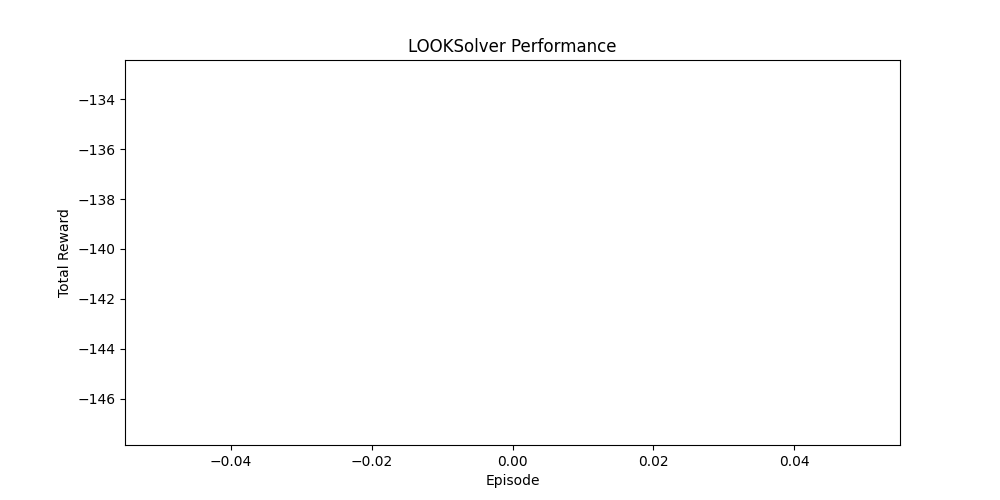
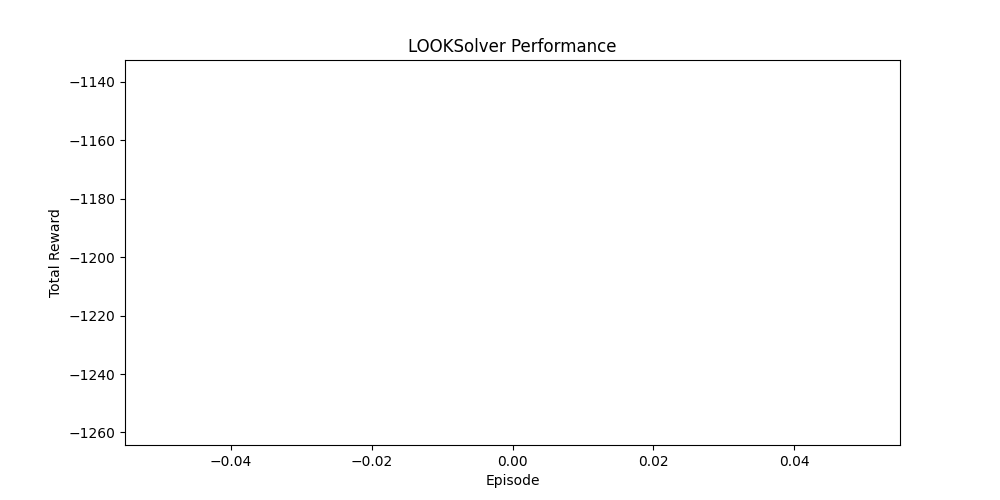
debug

diff --git a/Solver/LOOK.py b/Solver/LOOK.py
@@ -167,11 +167,11 @@ class LOOKSolver:
 
 if __name__ == "__main__":
     env = gym.make("Elevators/Elevators-v0", 
-                   num_floors=4, 
+                   num_floors=10, 
                    num_cars=1, 
-                   avg_passengers_spawning_time=3,
+                   avg_passengers_spawning_time=5,
                    total_passengers=1000000,
-                   capacity=4,
+                #    capacity=4,
                    seed=0)
     solver = LOOKSolver(env)
     rewards = []

diff --git a/Elevators/envs/simple_elevators.py b/Elevators/envs/simple_elevators.py
@@ -361,7 +361,7 @@ class ElevatorEnv(gym.Env):
             for p in car.passengers:
                 if p.t_board is not None:
                     r += (self.time - p.t_board)**2
-        reward = -(w + r) * 2e-4 + self.arrival_reward * 10 + self.board_reward
+        reward = -(w + r) * 1e-3 + self.arrival_reward * 10 + self.board_reward
         # self.arrival_reward = 0.0
         # self.board_reward = 0.0
         # print(f"reward: {-(w + r) * 1e-3:.2f}, w = {w:.2f}, r = {r:.2f}")
